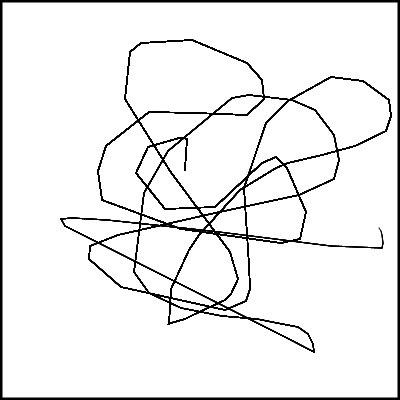
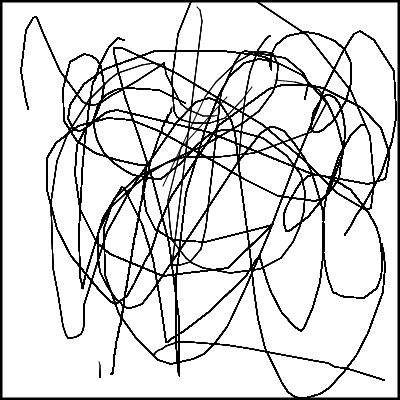
drawing works, quite laggy tho

diff --git a/JavaFX-Client/src/sample/ConnectionService.java b/JavaFX-Client/src/sample/ConnectionService.java
@@ -163,7 +163,18 @@ class ConnectionService {
 
     public void sendByteArray(byte[] byteArray) throws IOException {
         int length = byteArray.length;
-        socketChannel.write(ByteBuffer.wrap(byteArray));
+        int sent = 0;
+        ByteBuffer buffer = ByteBuffer.wrap(byteArray);
+
+        while(sent != length) {
+            sent += socketChannel.write(buffer);
+
+            if(sent != length) {
+                byte[] rest = new byte[length - sent];
+                buffer.get(rest, sent, length - sent);
+                buffer = ByteBuffer.wrap(rest);
+            }
+        }
     }
 
     public String getGameWaiting() throws IOException {
@@ -188,7 +199,7 @@ class ConnectionService {
         ByteArrayInputStream bais = new ByteArrayInputStream(bitmapByteArray);
         File outputFile = new File("saved.png");
         BufferedImage image = ImageIO.read(bais);
-        ImageIO.write(image, "png", outputFile);
+//        ImageIO.write(image, "png", outputFile);
         return image;
     }
 
@@ -209,10 +220,9 @@ class ConnectionService {
 
     public void sendPicture(byte[] picture) throws Exception {
         String header = "SET___CANVAS" + preparePictureLength(picture.length);
-        System.out.println(header);
         byte[] byteHeader = concatByteArrays(header.getBytes(), picture);
-        System.out.println(byteHeader);
         sendByteArray(byteHeader);
+        System.out.println(byteHeader.toString());
     }
 
     public String preparePictureLength(int length) throws Exception {

diff --git a/JavaFX-Client/src/sample/DrawingController.java b/JavaFX-Client/src/sample/DrawingController.java
@@ -106,12 +106,12 @@ public class DrawingController {
         ByteArrayOutputStream bos = new ByteArrayOutputStream();
 
         try {
-            ImageIO.write( SwingFXUtils.fromFXImage( writableImage, null ), "png", outputFile );
+//            ImageIO.write( SwingFXUtils.fromFXImage( writableImage, null ), "png", outputFile );
             ImageIO.write( SwingFXUtils.fromFXImage( writableImage, null ), "png", bos );
         } catch (IOException e) {
             e.printStackTrace();
         }
 
-        return new byte[1];
+        return bos.toByteArray();
     }
 }

diff --git a/JavaFX-Client/src/sample/Controller.java b/JavaFX-Client/src/sample/Controller.java
@@ -136,7 +136,6 @@ public class Controller {
             public void run() {
                 try {
                     connectionService.sendPicture(drawingController.getByteArrayFromCanvas());
-                    System.out.println("send");
                 } catch (Exception e) {
                     e.printStackTrace();
                 }
@@ -144,7 +143,7 @@ public class Controller {
         }
 
         Timer timer = new Timer();
-        timer.schedule(new SendImage(), 0, 100);
+        timer.schedule(new SendImage(), 0, 10);
 
     }
 
